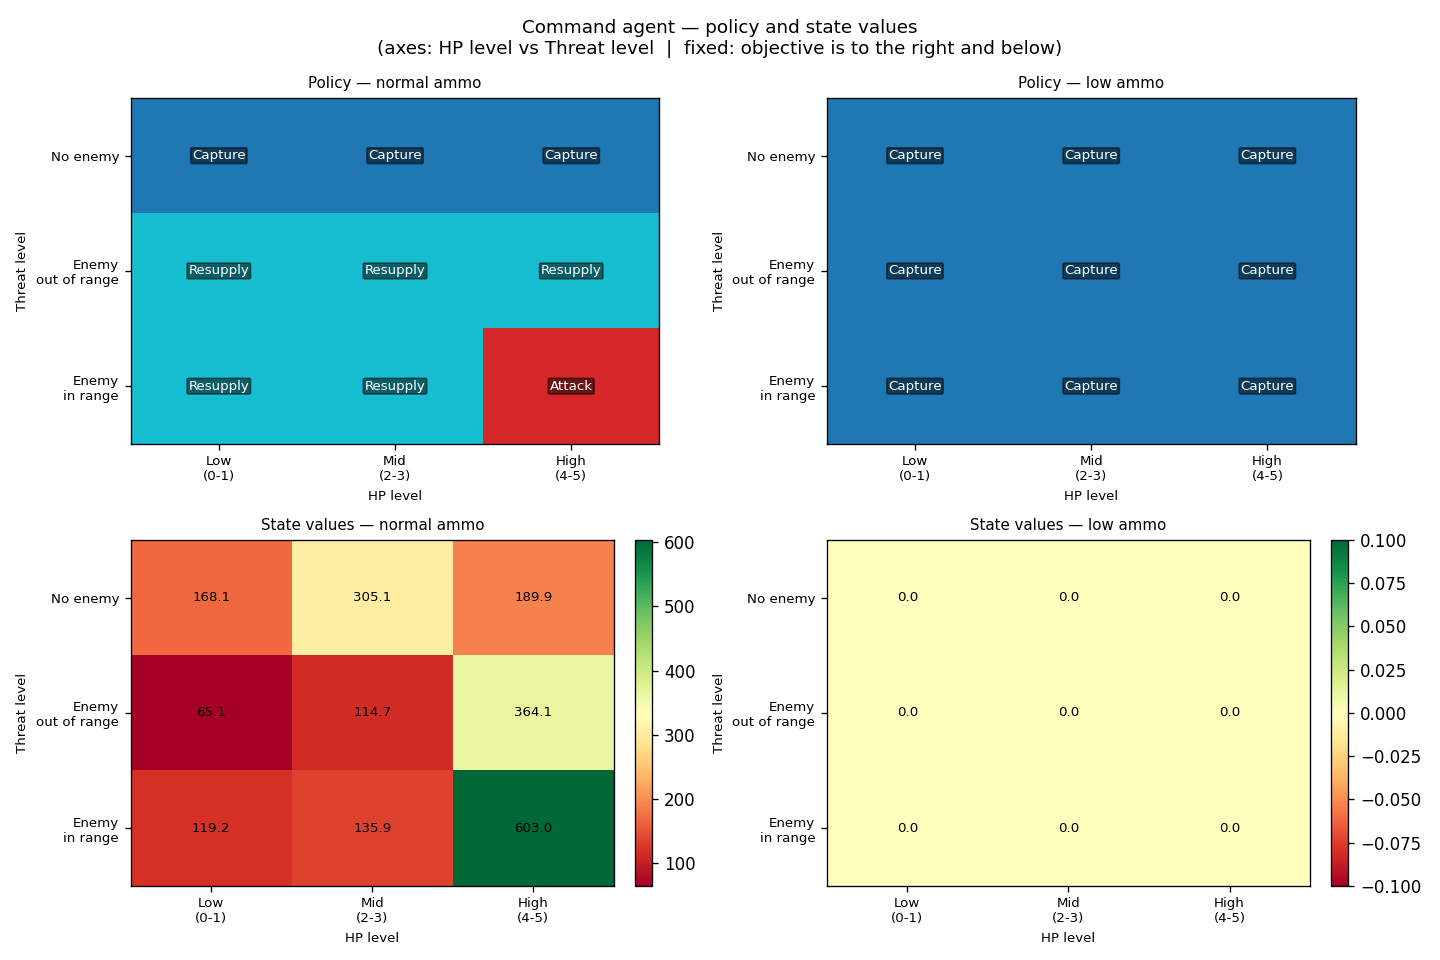
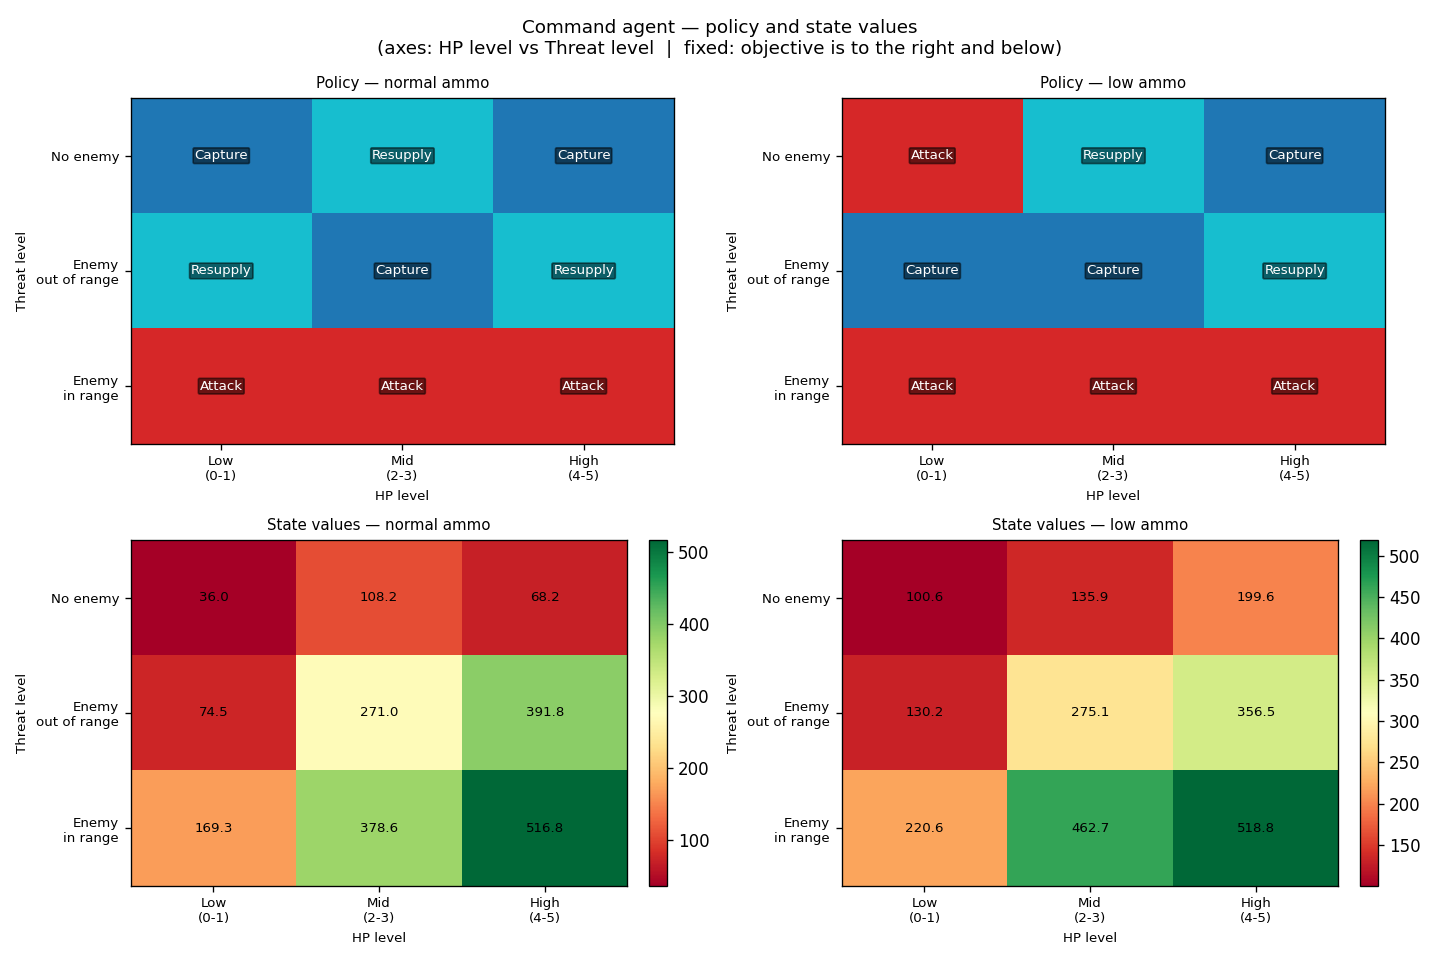
Update de ficheros varios

diff --git a/env/env_config.py b/env/env_config.py
@@ -1,6 +1,6 @@
 # -------- combat_logic ----------
-ATTACK_RANGE    = 3
-TIGER_DAMAGE    = 30   # Tiger tank — historically superior firepower
+ATTACK_RANGE    = 8
+TIGER_DAMAGE    = 40   # Tiger tank — historically superior firepower
 SHERMAN_DAMAGE  = 20   # Sherman tank — baseline
 DAMAGE_PER_ATTACK = SHERMAN_DAMAGE  # default kept for red team
 
@@ -8,7 +8,7 @@ DAMAGE_PER_ATTACK = SHERMAN_DAMAGE  # default kept for red team
 NUM_BLUE = 4
 NUM_RED  = 12
 MAP_SIZE = 100 # 25
-MAX_STEPS = 500 # X LO eliminamos porque lo gestiona TimeLimit
+MAX_STEPS = 800 # better fit for 100x100 map (movement + capture + counterplay)
 
 # commander meta-actions: the commander decides WHICH sub-agent takes action on the peloton this step
 # movement direction is never chosen by the commander directly — the capture_agent handles that
@@ -28,6 +28,8 @@ P_STEP          = -1.0  # small relative to capture/win rewards so shaping signa
 
 # observation vector size (one per blue peloton)
 OBS_SIZE = 16
+# "enemy_nearby" is visibility-level proximity, not direct fire range
+ENEMY_NEARBY_RANGE = 12
 
 # seed for the map
 SEED = 482 # 42
@@ -37,24 +39,58 @@ RENDER_EVERY = 1000
 
 # metrics / plotter
 MOVING_AVG_WINDOW = 50
+MOVING_AVG_WINDOW_LONG = 200
 PLOTS_SAVE_PATH   = "results"
 
-CAPTURE_OVERTIME = 30  # steps the enemy gets to reconquer after all 3 points are taken
+CAPTURE_OVERTIME = 40  # steps the enemy gets to reconquer after all 3 points are taken
 
 PELOTON_AMMO = 25
 PELOTON_FUEL = 500
 
-TIGER_PELOTON_HP = 600
-SHERMAN_PELOTON_HP = 300
+TIGER_PELOTON_HP = 650
+SHERMAN_PELOTON_HP = 500
 
 # -------- Luftwaffe (German air support) ----------
 LUFTWAFFE_ENABLED      = True   # toggle to disable the Luftwaffe entirely
-LUFTWAFFE_BLAST_RADIUS = 4      # Manhattan-distance radius of the bomb
-LUFTWAFFE_BASE_DAMAGE  = 120    # maximum damage at ground zero (before cover/falloff)
+LUFTWAFFE_BLAST_RADIUS = 5      # Manhattan-distance radius of the bomb
+LUFTWAFFE_BASE_DAMAGE  = 400    # maximum damage at ground zero (before cover/falloff)
+LUFTWAFFE_START_DELAY  = 50     # steps before first strike can be ordered
+LUFTWAFFE_REARM_MIN_STEPS = 15  # min cooldown at base after returning
+LUFTWAFFE_REARM_MAX_STEPS = 25  # max cooldown at base after returning
+LUFTWAFFE_RESPAWN_STEPS = 200   # if shot down, wait this many env steps to return
+LUFTWAFFE_MAX_RESPAWNS_PER_EPISODE = 1  # safety cap to avoid infinite air pressure
 R_LUFTWAFFE_HIT        = 40     # reward per blue commander for each Luftwaffe hit
 R_LUFTWAFFE_KILL       = 100    # extra reward when a red platoon is destroyed by air
 
 # -------- SmolAgents Field Marshal ----------
-FM_STRATEGY_INTERVAL   = 500    # episodes between LLM strategy calls
-FM_STRATEGY_BONUS      = 0.8    # reward bonus when a commander follows FM priority action
-FM_MODEL_ID            = "Qwen/Qwen2.5-72B-Instruct"   # HuggingFace model for the FM
+FM_STRATEGY_INTERVAL = 1000  # episodes between LLM strategy calls
+FM_WARMUP_EPISODES   = 1500  # do not call FM before this episode
+
+# LLM provider: "hf" (HuggingFace) or "groq" (free tier, 1000 req/day, much faster)
+#FM_PROVIDER = "groq"
+FM_PROVIDER = "hf"
+
+# HuggingFace provider — get token at https://huggingface.co/settings/tokens
+FM_MODEL_ID = "Qwen/Qwen2.5-72B-Instruct"
+HF_TOKEN    = "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"
+
+# https://console.groq.com/keys
+# switch to "groq" above if HF rate-limits you
+GROQ_MODEL_ID = "llama-3.3-70b-versatile"
+GROQ_API_KEY  = "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"
+
+# default reward multipliers (Option A) - LLM overrides these every N episodes
+FM_DEFAULT_CAPTURE_MULT = 1.0
+FM_DEFAULT_KILL_MULT    = 1.0
+FM_DEFAULT_DEFEND_MULT  = 1.0
+
+# -------- Epsilon decay tuning ----------
+# Slower decay helps on this project because many agents learn in parallel
+EPS_DECAY_BLUE_COMMAND  = 0.9995
+EPS_DECAY_BLUE_ATTACK   = 0.9995
+EPS_DECAY_BLUE_DEFENSE  = 0.9995
+EPS_DECAY_BLUE_CAPTURE  = 0.9998
+EPS_DECAY_RED_COMMAND   = 0.9995
+EPS_DECAY_RED_ATTACK    = 0.9995
+EPS_DECAY_RED_DEFENSE   = 0.9995
+EPS_DECAY_RED_CAPTURE   = 0.9998

diff --git a/utils/metrics_and_plotter.py b/utils/metrics_and_plotter.py
@@ -4,6 +4,7 @@ import matplotlib.pyplot as plt
 import env.env_config as cfg
 
 MOVING_AVG_WINDOW = cfg.MOVING_AVG_WINDOW
+MOVING_AVG_WINDOW_LONG = cfg.MOVING_AVG_WINDOW_LONG
 PLOTS_SAVE_PATH   = cfg.PLOTS_SAVE_PATH
 
 
@@ -18,6 +19,7 @@ class EpisodeTracker:
         self.red_alive_end     = []
         self.blue_captures_end = []
         self.red_captures_end  = []
+        self.winner_end        = []   # 'blue', 'red', 'draw' or None per episode
 
         # epsilon at end of episode, peloton 0 as representative for each agent type
         self.blue_cmd_epsilon = []
@@ -35,6 +37,7 @@ class EpisodeTracker:
         self.red_alive_end.append(info['red_alive'])
         self.blue_captures_end.append(sum(1 for v in info['captured'].values() if v))
         self.red_captures_end.append(sum(1 for v in info['red_captured'].values() if v))
+        self.winner_end.append(info.get('winner', None))
 
         self.blue_cmd_epsilon.append(commanders[0].epsilon)
         self.blue_atk_epsilon.append(env_raw.attack_agents[0].epsilon)
@@ -66,9 +69,13 @@ def plot_training_curves(tracker, save_path=PLOTS_SAVE_PATH, window=MOVING_AVG_W
 
     # --- 1. reward per episode ---
     avg_rewards = _moving_avg(tracker.total_rewards, window)
+    long_window = min(MOVING_AVG_WINDOW_LONG, len(tracker.total_rewards))
+    avg_rewards_long = _moving_avg(tracker.total_rewards, long_window)
     axes[0].plot(episodes, tracker.total_rewards, alpha=0.2, color='steelblue')
     axes[0].plot(episodes, avg_rewards, color='steelblue', linewidth=2,
                  label=f'moving avg ({window} ep)')
+    axes[0].plot(episodes, avg_rewards_long, color='midnightblue', linewidth=2,
+                 linestyle='--', label=f'moving avg ({long_window} ep)')
     axes[0].set_title('Reward per episode')
     axes[0].set_xlabel('Episode')
     axes[0].set_ylabel('Total reward')
@@ -77,9 +84,12 @@ def plot_training_curves(tracker, save_path=PLOTS_SAVE_PATH, window=MOVING_AVG_W
 
     # --- 2. episode duration (steps) ---
     avg_steps = _moving_avg(tracker.episode_steps, window)
+    avg_steps_long = _moving_avg(tracker.episode_steps, long_window)
     axes[1].plot(episodes, tracker.episode_steps, alpha=0.2, color='darkorange')
     axes[1].plot(episodes, avg_steps, color='darkorange', linewidth=2,
                  label=f'moving avg ({window} ep)')
+    axes[1].plot(episodes, avg_steps_long, color='saddlebrown', linewidth=2,
+                 linestyle='--', label=f'moving avg ({long_window} ep)')
     axes[1].set_title('Episode duration (steps)')
     axes[1].set_xlabel('Episode')
     axes[1].set_ylabel('Steps')
@@ -88,9 +98,12 @@ def plot_training_curves(tracker, save_path=PLOTS_SAVE_PATH, window=MOVING_AVG_W
 
     # --- 3. TD error (training error) ---
     avg_td = _moving_avg(tracker.cmd_td_errors, window)
+    avg_td_long = _moving_avg(tracker.cmd_td_errors, long_window)
     axes[2].plot(episodes, tracker.cmd_td_errors, alpha=0.2, color='crimson')
     axes[2].plot(episodes, avg_td, color='crimson', linewidth=2,
                  label=f'moving avg ({window} ep)')
+    axes[2].plot(episodes, avg_td_long, color='darkred', linewidth=2,
+                 linestyle='--', label=f'moving avg ({long_window} ep)')
     axes[2].set_title('Command agent — TD error')
     axes[2].set_xlabel('Episode')
     axes[2].set_ylabel('Mean |TD error|')

diff --git a/training_and_eval.py b/training_and_eval.py
@@ -79,7 +79,7 @@ def train(episodes=5000, render_every=1000):
     red_fm         = AlliedFieldMarshal()
     red_strategy   = red_fm.current_strategy
 
-    fm_next_call   = cfg.FM_STRATEGY_INTERVAL
+    fm_next_call   = max(cfg.FM_STRATEGY_INTERVAL, cfg.FM_WARMUP_EPISODES)
 
     for ep in range(episodes):
         obs, _ = env.reset()
@@ -114,7 +114,10 @@ def train(episodes=5000, render_every=1000):
             done          = terminated or truncated
 
         for commander in commanders:
-            commander.decay_epsilon(decay_rate=0.999, min_epsilon=0.05)
+            commander.decay_epsilon(
+                decay_rate=cfg.EPS_DECAY_BLUE_COMMAND,
+                min_epsilon=0.05,
+            )
 
         cmd_td_mean = sum(ep_td_errors) / len(ep_td_errors) if ep_td_errors else 0.0
         tracker.record(total_reward, info['step'], cmd_td_mean, info, commanders, env.unwrapped)
@@ -183,4 +186,4 @@ def train(episodes=5000, render_every=1000):
 
 
 if __name__ == "__main__":
-    train(episodes=10000, render_every=500)
+    train(episodes=10000, render_every=9999)

diff --git a/agents/command_agent.py b/agents/command_agent.py
@@ -89,7 +89,7 @@ class command_agent:
             actions.append(self.choose_action(peloton_obs))
         return actions
 
-    def compute_reward(self, obs_before, obs_after, action, env_reward):
+    def compute_reward(self, obs_before, obs_after, action, env_reward, reward_mult=1.0):
         """
         Quantificates an reward depending on the decision
 
@@ -99,13 +99,16 @@ class command_agent:
         action: latest action of the Agent
         reward: quantitative value
         env_reward = The reward in each iteration
+        reward_mult = scaling factor from Field Marshal (Option A reward shaping)
 
         Return:
            The reward based on the action of the Agent.
         
         """
 
-        reward = env_reward
+        # reward_mult is set by the Field Marshal every FM_STRATEGY_INTERVAL episodes
+        # it scales the base env reward to steer the Q-agents toward the priority action
+        reward = env_reward * reward_mult
 
         enemy_nearby = int(obs_before[5])
         enemy_dist   = int(obs_before[6])

diff --git a/env/wrappers.py b/env/wrappers.py
@@ -3,7 +3,7 @@ import numpy as np
 import gymnasium as gym
 from gymnasium import spaces
 
-from env.env_config import OBS_SIZE, NUM_BLUE
+from env.env_config import OBS_SIZE, NUM_BLUE, ENEMY_NEARBY_RANGE
 
 # max possible value for each of the 16 obs features — used by ObsNormWrapper
 OBS_MAX_VALS = np.array([
@@ -111,7 +111,7 @@ class FogOfWarWrapper(gym.ObservationWrapper):
     ENEMY_NEARBY_IDX = 5
     ENEMY_DIST_IDX   = 6
 
-    def __init__(self, env, visibility_range=8):
+    def __init__(self, env, visibility_range=ENEMY_NEARBY_RANGE):
         super().__init__(env)
         self.visibility_range = visibility_range
 

diff --git a/agents/attack_agent.py b/agents/attack_agent.py
@@ -78,7 +78,8 @@ class attack_agent:
             else:
                 reward = -1.0  # enemy visible and didnt shoot
         else:
-            reward = 0.0  # no enemy, neutral
+            # small penalty: shooting blindly should not look as good as waiting
+            reward = -0.3 if action == SHOOT else 0.0
  
         return reward
  

diff --git a/agents/agents_config.py b/agents/agents_config.py
@@ -16,7 +16,7 @@ META_CAPTURE  = 0
 META_ATTACK   = 1
 META_DEFENSE  = 2
 META_RESUPPLY = 3
-ATTACK_RANGE = 3 # same as ATTACK_RANGE in combat_logic.py
+ATTACK_RANGE = 8 # keep aligned with env attack range
 
 # -------------- defense agent configuration -----------------
 # cover types (only 3 to test)
